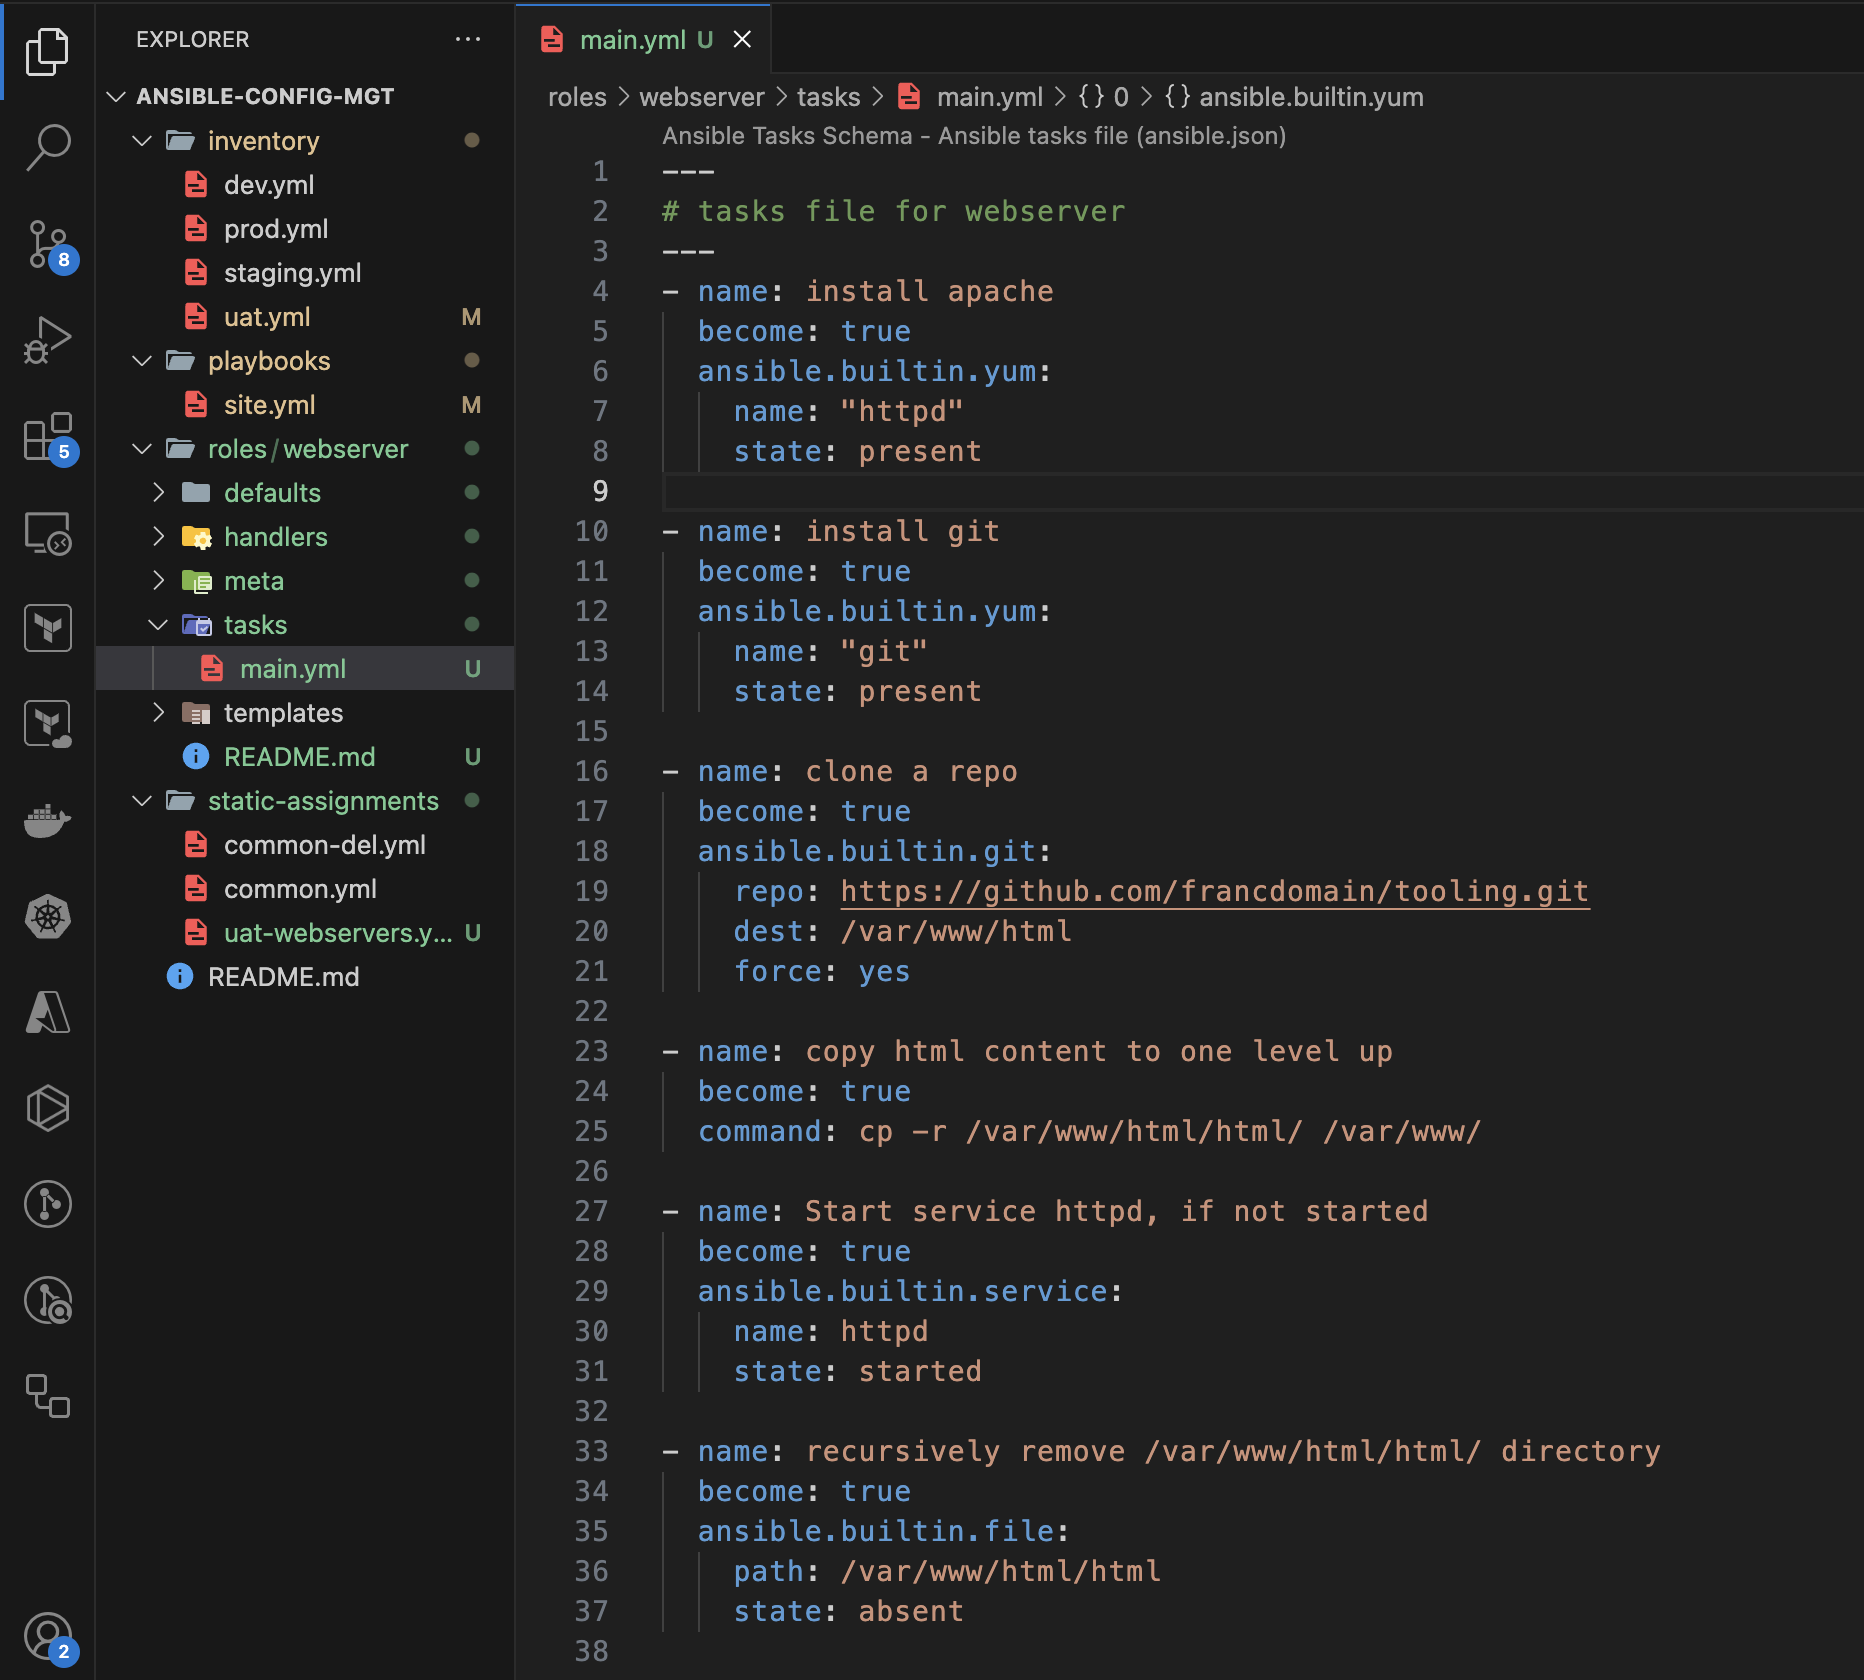
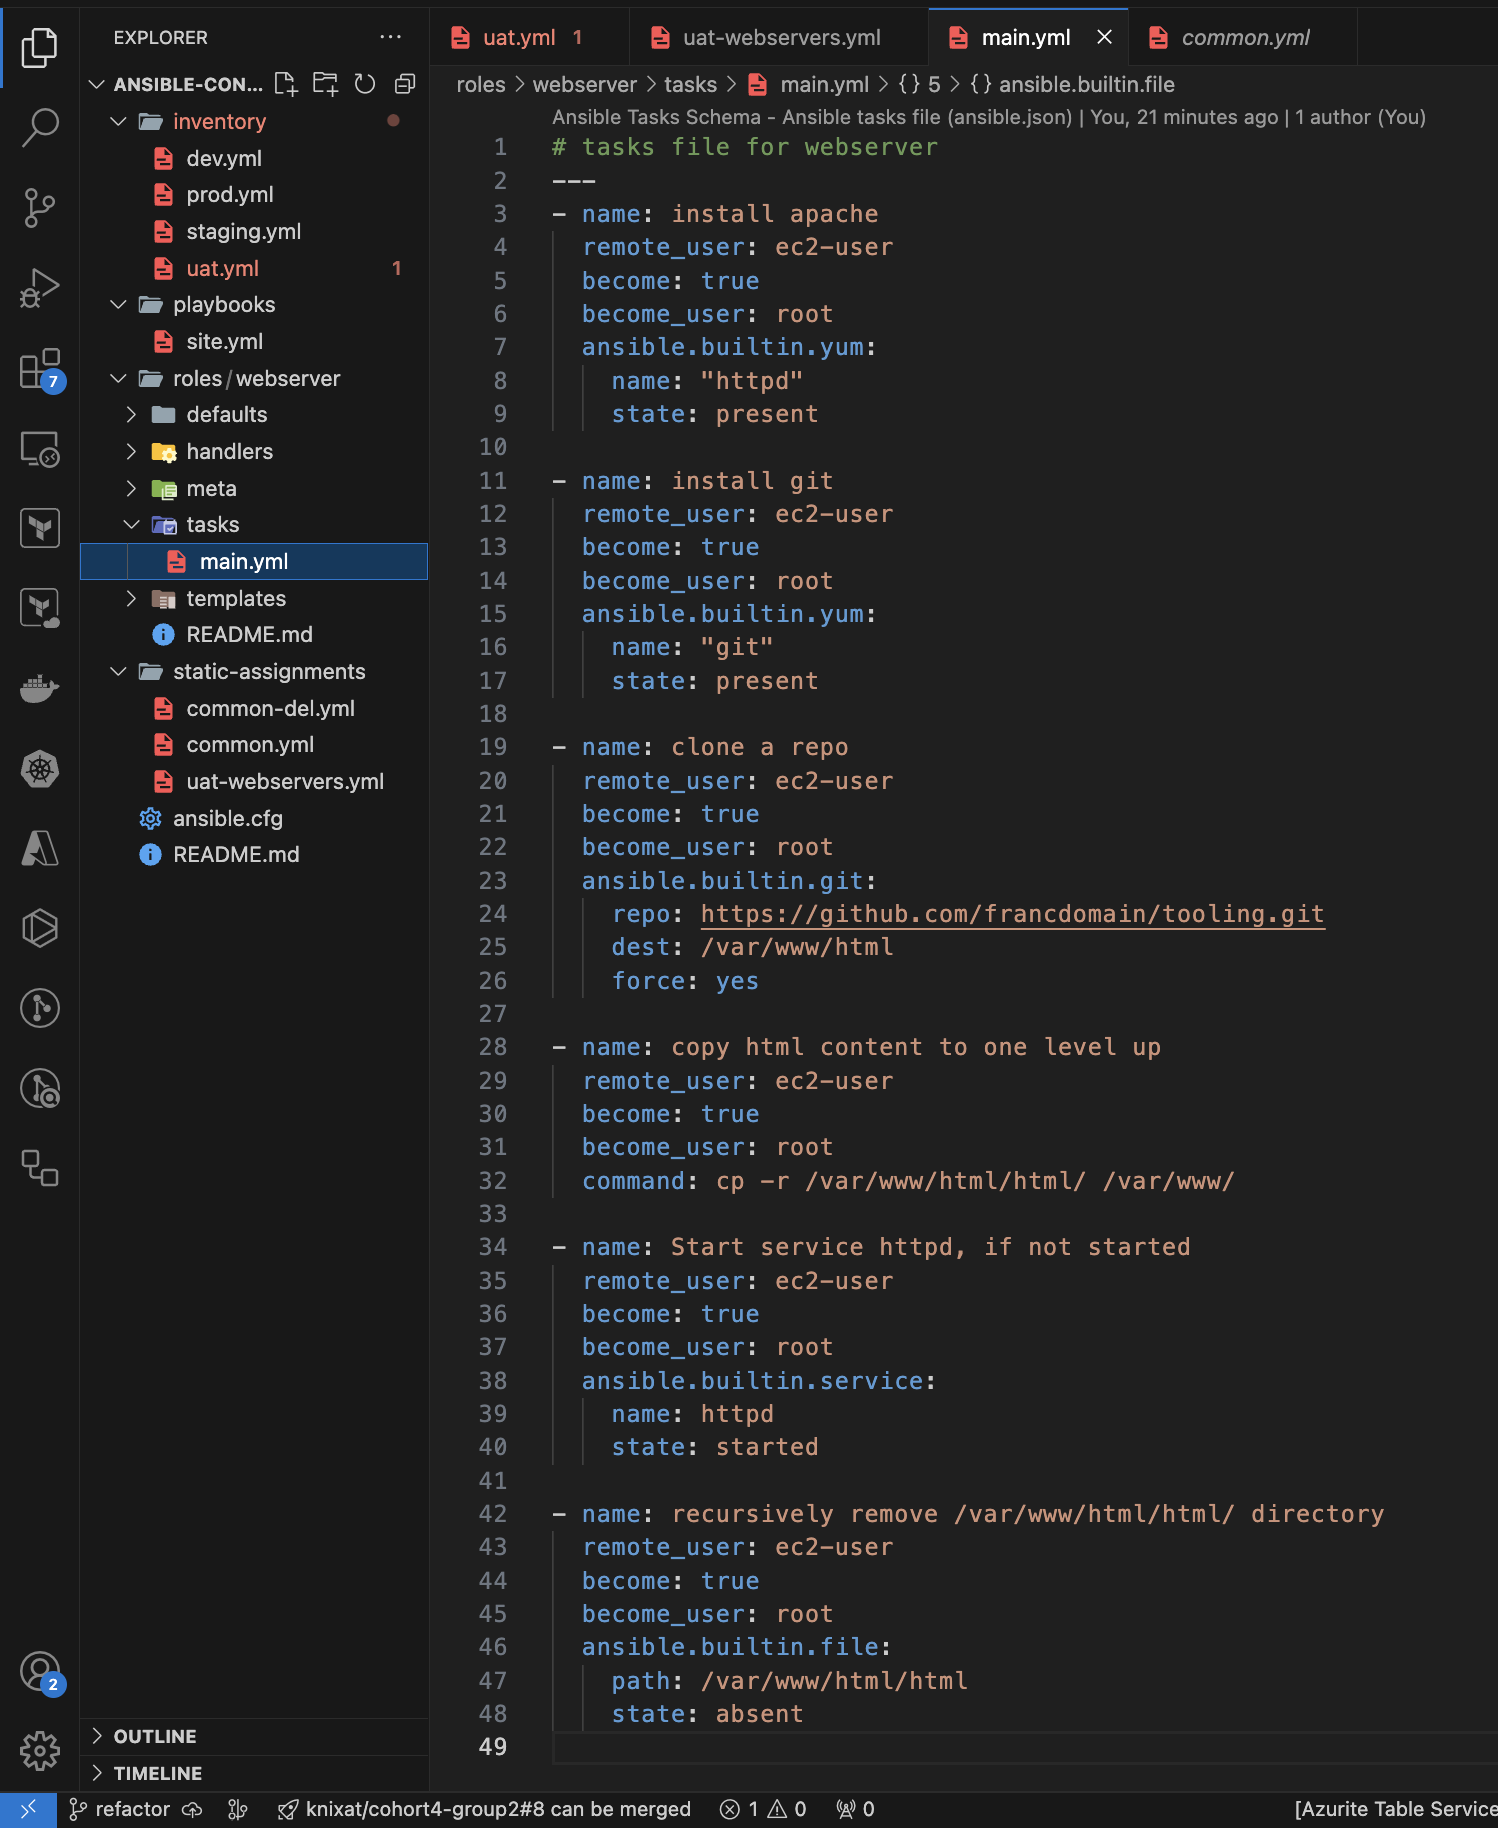
updated files

diff --git a/Ansible-Refactoring-and-Static-Assignments/Ansible_Refactoring_and_Static_Assignments.md b/Ansible-Refactoring-and-Static-Assignments/Ansible_Refactoring_and_Static_Assignments.md
@@ -325,44 +325,58 @@ To learn how to setup SSH agent and connect VS Code to your Jenkins-Ansible inst
 - Ensure the tooling website code is deployed to /var/www/html on each of 2 UAT Web servers.
 - Make sure httpd service is started
 
-Your main.yml may consist of following tasks:
+Your main.yml consist of following tasks:
 
 ```yaml
+# tasks file for webserver
 ---
 - name: install apache
+  remote_user: ec2-user
   become: true
+  become_user: root
   ansible.builtin.yum:
     name: "httpd"
     state: present
 
 - name: install git
+  remote_user: ec2-user
   become: true
+  become_user: root
   ansible.builtin.yum:
     name: "git"
     state: present
 
 - name: clone a repo
+  remote_user: ec2-user
   become: true
+  become_user: root
   ansible.builtin.git:
-    repo: https://github.com/<your-name>/tooling.git
+    repo: https://github.com/francdomain/tooling.git
     dest: /var/www/html
     force: yes
 
 - name: copy html content to one level up
+  remote_user: ec2-user
   become: true
+  become_user: root
   command: cp -r /var/www/html/html/ /var/www/
 
 - name: Start service httpd, if not started
+  remote_user: ec2-user
   become: true
+  become_user: root
   ansible.builtin.service:
     name: httpd
     state: started
 
 - name: recursively remove /var/www/html/html/ directory
+  remote_user: ec2-user
   become: true
+  become_user: root
   ansible.builtin.file:
     path: /var/www/html/html
     state: absent
+
 ```
 ![](./images/task-main.png)
 
@@ -436,5 +450,4 @@ __Access Web2-UAT__
 __Our Ansible architecture now looks like this:__
 
 ![](./images/architecture1.png)
-
 
